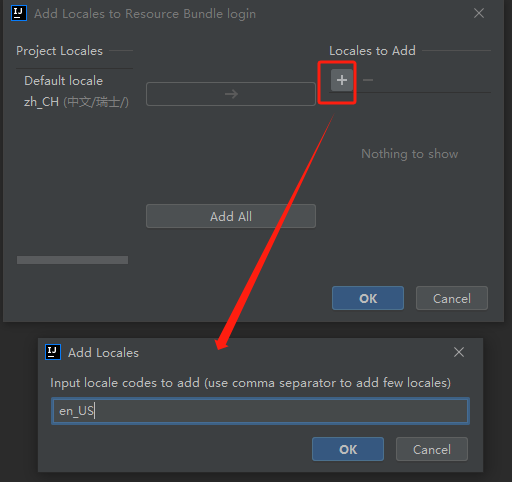
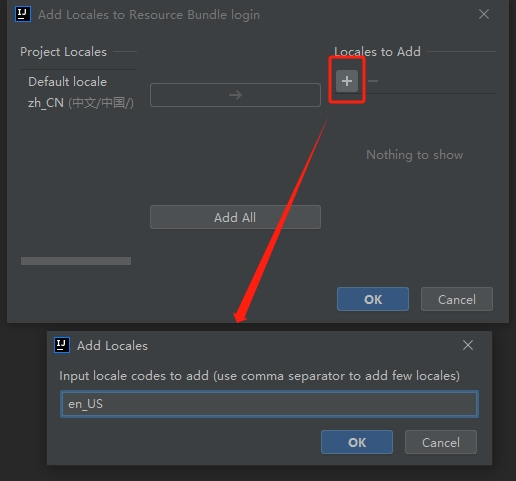
Spring Boot页面国际化图片

diff --git a/SpringBoot/16_Spring Boot页面国际化.md b/SpringBoot/16_Spring Boot页面国际化.md
@@ -23,7 +23,7 @@
 
 ## 3.2 i18n下新建配置文件
 
-新建**login.properties**国际化默认配置文件，再新建**login_zh_CH.properties**中文配置文件，此时，系统会自动识别到国际化配置，将文件合并目录并切换到国际化视图。
+新建**login.properties**国际化默认配置文件，再新建**login_zh_CN.properties**中文配置文件，此时，系统会自动识别到国际化配置，将文件合并目录并切换到国际化视图。
 
 ![image-20240327165221039](16_Spring%20Boot%E9%A1%B5%E9%9D%A2%E5%9B%BD%E9%99%85%E5%8C%96.assets/image-20240327165221039.png)
 
